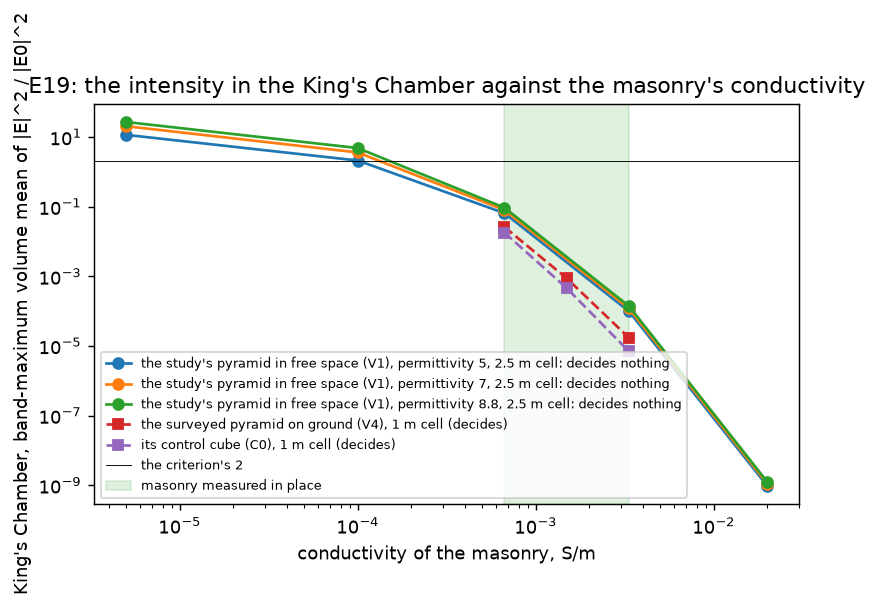
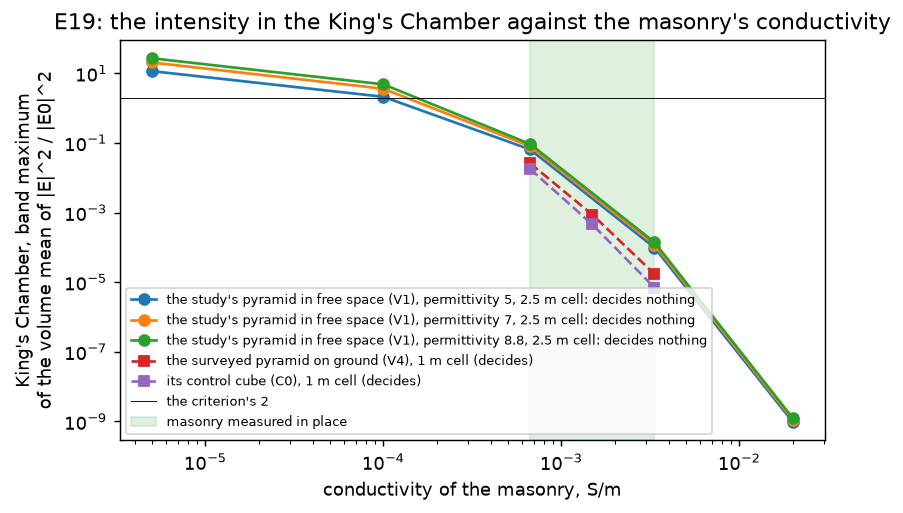
Regenerate chem, em, the viewer data and the summary after the verification's fixes

Changed region(s): [[0.0, 0.0, 0.9841, 0.9981], [0.8303, 0.7173, 0.861, 0.7797]]

diff --git a/results/summary/report.md b/results/summary/report.md
@@ -260,7 +260,7 @@ Generated by `uv run python -m pyramid.summary`. Do not edit by hand.
 | S19 | Leftover sulfur dioxide dissolves in the water to give sulfurous acid. | conditional | With the Gallery half full and a cycle of 24 h (the hypothesis states none; 1 h to 1 yr is taken as its range), 87 percent of the sulfur dioxide crosses the level surface into the water (0.1 to 97 percent over the ranges of the inputs), which over those ranges is neither always at the 90 percent from which the criterion passes the claim nor always under the 50 percent below which it fails it. The water could hold 98 percent at equilibrium, so the rate decides. It depends on the cycle time, on whether the gas over the water stands still or convects (gas-side coefficient 0.003 to 10 mm/s, assumed) and on the film on the water's side of the surface (liquid-film coefficient 0.001 to 0.01 mm/s, assumed with no source), none of which the hypothesis gives; the 87 percent is for a gas-side coefficient of 1.5 mm/s and a liquid-film coefficient of 0.01 mm/s. At those two coefficients the share passes 50 percent after 7.8 h and passes 90 percent after 28 h, with a time constant of 10.7 h toward the 96.9 percent that the water holds by Henry's law alone, without the dissociation counted in the 98 percent; in a cycle of 24 h it runs from 2 to 94 percent over the ranges of the other inputs, the two coefficients among them, so stating a cycle of that length would not settle the claim without them. The model gives the gas the whole cycle over the half-full Gallery, though it stands over the water only until the water has risen (S18): in a contact of the 1 h that the ledger carries for one fill, a time the hypothesis does not state either, the share is 9 percent (0.014 to 94 percent over fills of 10 minutes to 24 h and the ranges of the other inputs). |
 | S22 | No gas is pushed back into the King's Chamber, because both gases dissolve as fast as the water rises. | fail | Emptying the whole Gallery draws 573 m3 of gas into it and the King's Chamber holds 320 m3, so at least 44 percent of the gas over the water is outside air, come down the shafts of S14 or in through the masonry joints (39 percent at the least). Its nitrogen hardly dissolves: if all the sulfur dioxide dissolved, the oxidation used every mole of oxygen it could and the water arrived free of dissolved gas, the rising water would still push 33 percent of the gas back (29 to 37 percent over the ranges of the inputs), and 54 percent of a mixture that carries the oxygen for all its sulfur. Nothing is pushed back only if air is under 2.0 percent of the gas (2.4 percent at most), which brings oxygen for 0.8 percent of the sulfur, while S14 to S17 carry air into the Gallery; the hypothesis states no gas fraction, and the whole Gallery is taken as emptied because S18 raises the water again in the four activations with which S12 fills it. Taking the least air that emptying the whole Gallery admits, not a gas without air, as the end most favourable to the hypothesis is a judgement call. |
 | S23 | Acid attacks the limestone walls of the gallery and Queen's Chamber, forming a calcium sulfate layer that stops further attack and re-forms where it chips off. | conditional | Fresh water lets bare limestone neutralise 41 percent of the strongest batch before gypsum can form (Tier 0), and the layer that then grows by acid diffusing through it reaches 3.7 micrometres in a cycle of 24 h (the hypothesis states none; 1 h to 1 yr is taken as its range) (0.1 to 74 micrometres over the ranges of the inputs). One fill of fresh water can dissolve 0.63 mm of gypsum, 173 times that layer (7.7 times at the least); even the most gypsum a whole batch can lay down is 55 percent of what one fill dissolves (76 percent at most), so a fill that comes to saturation strips it; every cycle then starts on bare stone, which loses up to 0.21 mm per cycle and 2.1 mm in ten in bringing each batch to saturation (1.6 to 4.9 mm over the ranges of the inputs). A fill that stands still strips the layer a bare wall grows in one cycle by diffusion alone only if it stands at least 0.1 times as long as the acid stood (0.19 times at most). The hypothesis does not state that time; over the range taken, 1.9e-05 to 1 of the acid's, a still fill dissolves 0.0099 to 23 times that layer, and 0.65 times at the 0.042 the ledger takes as its value. The acid of the next batch does not strip it: still acid dissolves it from outside while it grows from beneath and leaves at most 49 percent of it (7 to 61 percent), about 26 percent once the batch's bisulfate is counted (4 to 35 percent). So whether the layer lasts depends on how long the fresh water stands against the wall and on how it moves, neither of which the hypothesis states. |
-| E01 | Cited paper: hydrogen sulfide rises under the Giza plateau, tied to hydrocarbon seepage and sulfuric-acid cave formation. | undefined | No opened source gives a measured hydrogen sulfide flux, composition or source pressure under the plateau: 07 read the cited paper in full, and it measured no gas and reports no present-day seepage, so the passing clause is not met. The failing clause cannot be evaluated either. The plateau geology file (07) gives no flux for any seep or spring, so a required flux has nothing to be set against at any cycle time: its one analogue is a concentration, read from an abstract, at which one batch is the sulfide in 5.3 million m3 of cave air. One full batch needs 13319 mol of hydrogen sulfide, 454 kg, a mole for each mole of sulfur dioxide in the King's Chamber, which is 0.15 mol/s and 166 t a year at one batch every 24 h, and 0.00041 to 3.8 mol/s over the cycle times taken; the hypothesis states no cycle rate either, so the required flux is itself undefined (07 section 4.4). |
+| E01 | Cited paper: hydrogen sulfide rises under the Giza plateau, tied to hydrocarbon seepage and sulfuric-acid cave formation. | undefined | No opened source gives a measured hydrogen sulfide flux, composition or source pressure under the plateau: the plateau geology file (07) read the cited paper in full, and it measured no gas and reports no present-day seepage, so the passing clause is not met. The failing clause cannot be evaluated either. The plateau geology file (07) gives no flux for any seep or spring, so a required flux has nothing to be set against at any cycle time: its one analogue is a concentration, read from an abstract, at which one batch is the sulfide in 5.3 million m3 of cave air. One full batch needs 13319 mol of hydrogen sulfide, 454 kg, a mole for each mole of sulfur dioxide in the King's Chamber, which is 0.15 mol/s and 166 t a year at one batch every 24 h, and 0.00041 to 3.8 mol/s over the cycle times taken; the hypothesis states no cycle rate either, so the required flux is itself undefined (07 section 4.4). |
 
 <details><summary>25 computed quantities. Low and high are the ends over the ledger's ranges where the package varied its inputs; they repeat the value where it ran one case</summary>
 

diff --git a/results/summary/verdicts.md b/results/summary/verdicts.md
@@ -37,7 +37,7 @@ Generated by `uv run python -m pyramid.summary`. Do not edit by hand.
 | S29 | Closed breakers route voltage along the iron veins to the Osiris Shaft, the satellite pyramids, mastabas, temples, the third pyramid and the Khentkawes structures. | conditional | tier0 | A vein must conduct 2.7e+05 times better than the rock to carry current 100 m; the best measured specular hematite reaches 3.3e+04 times in 100 ohm m rock and 1.0e+06 times in the most resistive 3000 ohm m rock, earthy red hematite reaches 4.2e-02 times at most, and no Giza vein has been measured. |
 | S30 | The acids are used on the plateau for leach mining, metal separation and metallurgy. | conditional | tier0 | Pure sulfur dioxide at one atmosphere caps the product at 0.023 mol/L (0.026 mol/L at most), or 0.012 mol/L if its oxygen comes with the same draw of air, below the 0.05 mol/L pass line at any gas fraction; the ceiling scales with the sulfur dioxide fraction of the chamber gas, so the product stays above the 0.005 mol/L fail line only if that fraction is at least 22 percent (19 percent with every input at its favourable end), and the hypothesis states no gas fraction. |
 | S31 | The whole sequence then repeats, not continuously but paced by storms. | undefined | tier0 | Direct strikes come at most 0.12 times per year, one every 8 years, and the hypothesis states no cycle rate to compare this with. |
-| E01 | Cited paper: hydrogen sulfide rises under the Giza plateau, tied to hydrocarbon seepage and sulfuric-acid cave formation. | undefined | chem | No opened source gives a measured hydrogen sulfide flux, composition or source pressure under the plateau: 07 read the cited paper in full, and it measured no gas and reports no present-day seepage, so the passing clause is not met. The failing clause cannot be evaluated either. The plateau geology file (07) gives no flux for any seep or spring, so a required flux has nothing to be set against at any cycle time: its one analogue is a concentration, read from an abstract, at which one batch is the sulfide in 5.3 million m3 of cave air. One full batch needs 13319 mol of hydrogen sulfide, 454 kg, a mole for each mole of sulfur dioxide in the King's Chamber, which is 0.15 mol/s and 166 t a year at one batch every 24 h, and 0.00041 to 3.8 mol/s over the cycle times taken; the hypothesis states no cycle rate either, so the required flux is itself undefined (07 section 4.4). |
+| E01 | Cited paper: hydrogen sulfide rises under the Giza plateau, tied to hydrocarbon seepage and sulfuric-acid cave formation. | undefined | chem | No opened source gives a measured hydrogen sulfide flux, composition or source pressure under the plateau: the plateau geology file (07) read the cited paper in full, and it measured no gas and reports no present-day seepage, so the passing clause is not met. The failing clause cannot be evaluated either. The plateau geology file (07) gives no flux for any seep or spring, so a required flux has nothing to be set against at any cycle time: its one analogue is a concentration, read from an abstract, at which one batch is the sulfide in 5.3 million m3 of cave air. One full batch needs 13319 mol of hydrogen sulfide, 454 kg, a mole for each mole of sulfur dioxide in the King's Chamber, which is 0.15 mol/s and 166 t a year at one batch every 24 h, and 0.00041 to 3.8 mol/s over the cycle times taken; the hypothesis states no cycle rate either, so the required flux is itself undefined (07 section 4.4). |
 | E02 | That paper's X-ray fluorescence analyses found metal compounds matching samples from the plateau's iron deposits. | fail | evidence | No evidence found: no match between the two datasets was found. Both were read in full; the research file calls the claim weak and does not call it contradicted. The cited paper analysed one sulfate nodule and one host mudstone by X-ray fluorescence; of the ten elements the speaker names for the iron deposits it reports four, all common trace elements, and none of cerium, neodymium, silver, gold, platinum or tin. The iron-deposit data are 16 samples from Khafre's boat pits, in a report that is not peer-reviewed. The one level the files give for both, thorium, is 139 ppm in the paper's nodule and 0.25 to 1.36 ppm in the pit samples. |
 | E03 | Cited paper: caves can form in iron-ore bodies, as at the Tomb of the Birds. | fail | evidence | No evidence found: no survey of a Giza cave shows cave forms cut in iron ore. The one study of Giza cave deposits that was read in full describes a mudstone exposure on the west side of the plateau and reports iron and manganese oxide as a minor part of gypsum and fracture fills (0.65 and 6.19 percent iron oxide by weight in its two samples), and the research file finds no ore body documented at Giza: the plateau is carbonate rock with minor oxide fills. That exposure is not the Tomb of the Birds; the research files read no survey of that cave and record no search for one. The paper the claim cites concerns iron-ore caves at other sites, which the criterion sets aside, and no research file opened it. |
 | E04 | Rock forms near the trial passages and the Tomb of the Birds look like Austrian sulfuric-acid caves. | conditional | evidence | Partly supported: mineral evidence of sulfuric-acid cave formation is published for the plateau, but not for the sites named. One paper, read in full, argues it from natroalunite, replacive gypsum and related minerals at a single exposure at Darb El Fayum on the west side, in a mudstone unit it lists apart from the formation the pyramids stand on. That exposure is not the trial passages, the Tomb of the Birds or any cave the speaker names, and no sulfur isotopes were measured. Likeness in photographs is not evidence. |
